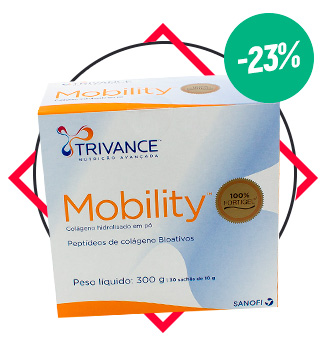
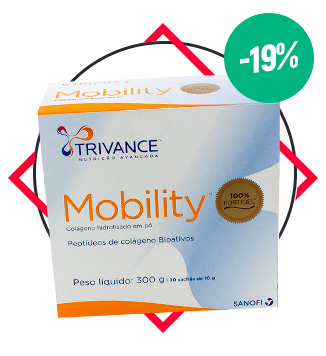
-----

Changed region(s): [[0.7362, 0.0927, 0.9202, 0.2163]]

diff --git a/buscarid/email-mkt-imbativeis-010217.html b/buscarid/email-mkt-imbativeis-010217.html
@@ -197,7 +197,7 @@
 						<td align="left" colspan="3" valign="top">
 							<font style="color:#191919; font-family:Verdana; font-size:12px; text-align: left">
 								De:
-								<strike>R$129,80</strike>
+								<strike>R$122,95</strike>
 							</font>
 						</td>
 					</tr>
